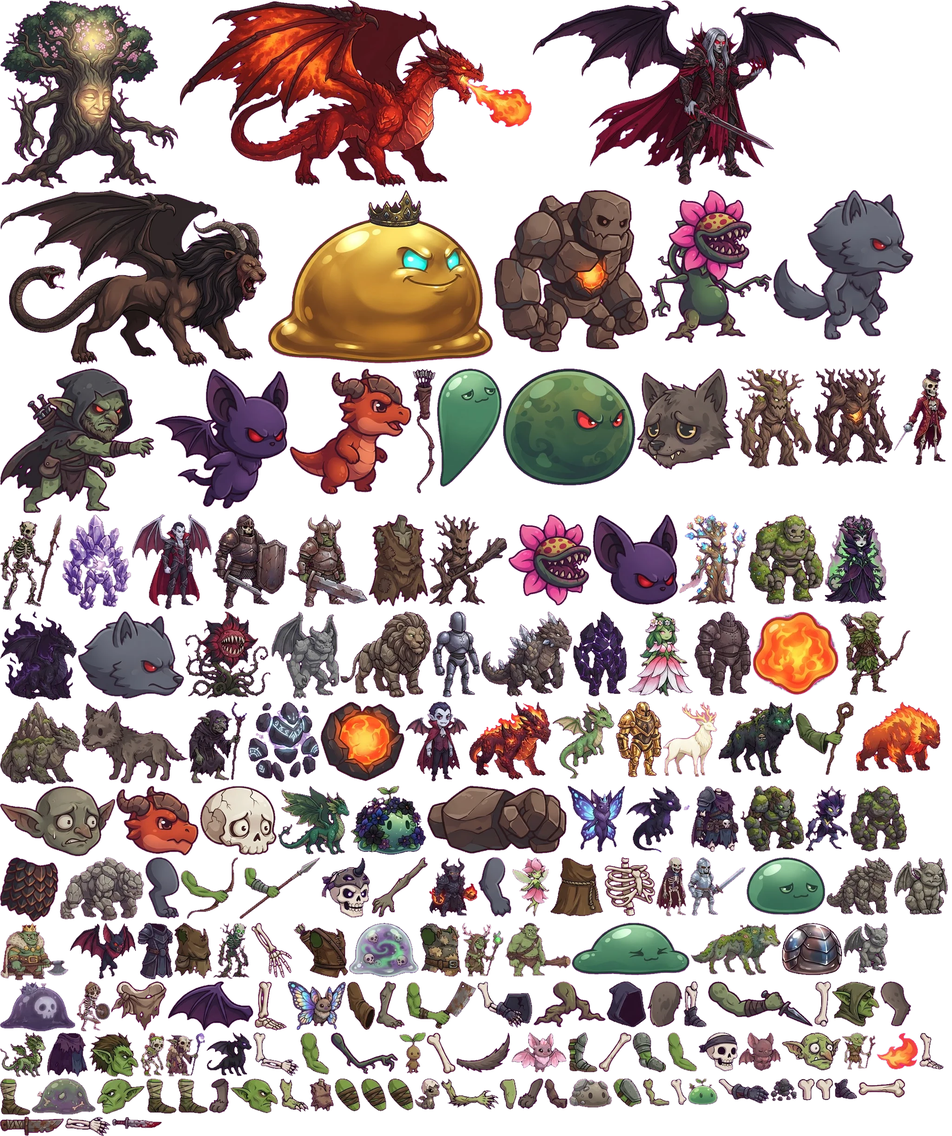
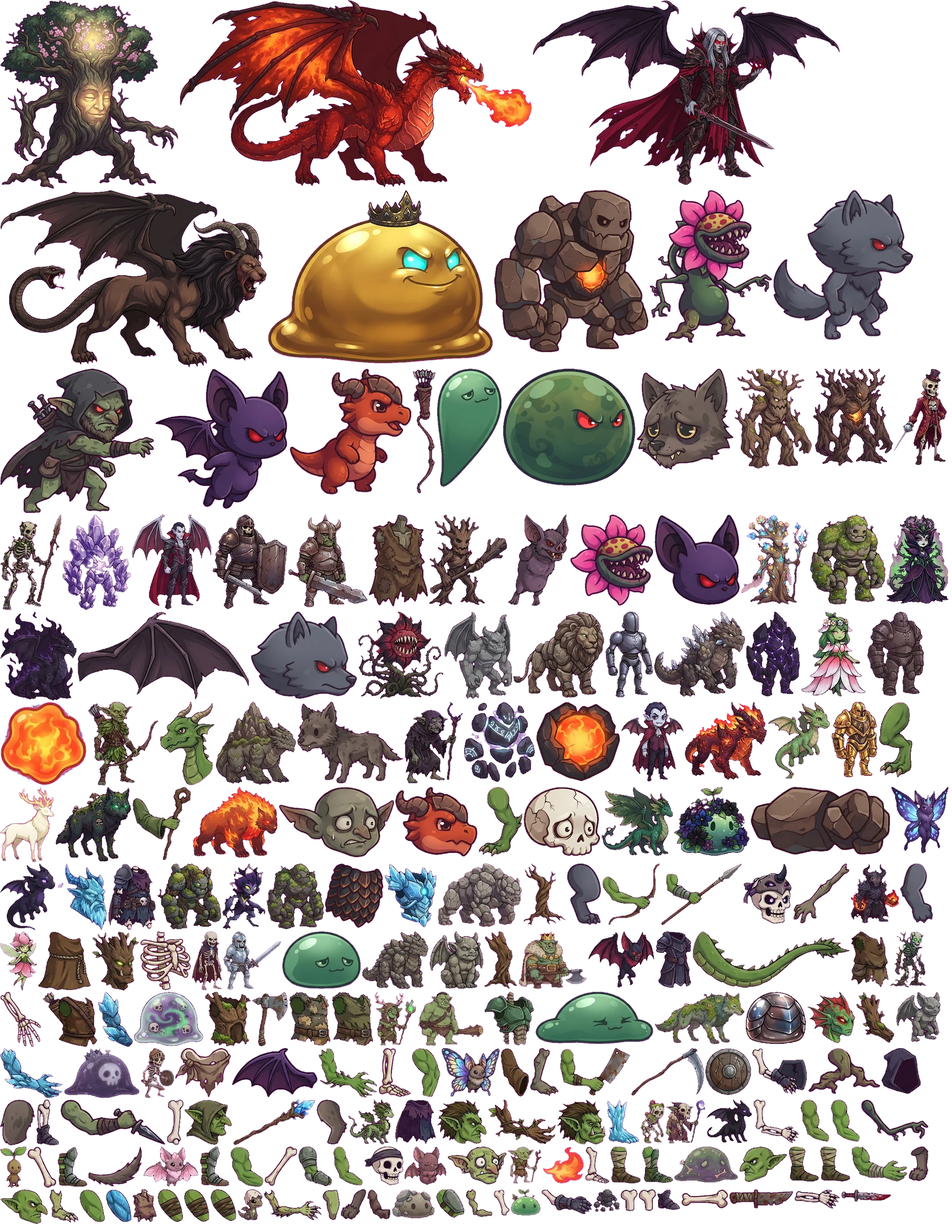
Bone to Beast/Survivors: rigged enemies (lizardman, orc, ice golem, treant, bat with flapping wings, drake with walking legs)
Claude-Session: https://claude.ai/code/session_01VuDiQoiwkAwkour2auYRX7

diff --git a/bone-to-beast/index.html b/bone-to-beast/index.html
@@ -419,7 +419,7 @@ function rr(g,x,y,w,h,r){g.beginPath();g.moveTo(x+r,y);g.arcTo(x+w,y,x+w,y+h,r);
 function limb(g,x1,y1,x2,y2,w,col,joint){g.strokeStyle=col;g.lineWidth=w;g.lineCap='round';g.beginPath();g.moveTo(x1,y1);g.lineTo(x2,y2);g.stroke();if(joint){g.fillStyle=col;g.beginPath();g.arc(x1,y1,w*0.75,0,7);g.arc(x2,y2,w*0.75,0,7);g.fill();}}
 function shade(hex,a){var n=parseInt(hex.slice(1),16);return 'rgb('+[n>>16,(n>>8)&255,n&255].map(function(v){return Math.max(0,Math.min(255,v+a));}).join(',')+')';}
 // ======================= art (atlas) =======================
-var ATLAS={"uTree":[0,0,384,407],"uDragon":[386,0,758,404],"uVampire":[1146,0,661,399],"uChimera":[0,409,574,382],"uOrichalcum":[576,409,485,374],"eGolem":[1063,409,332,350],"ePlant":[1397,409,264,330],"eWolf":[1663,409,302,323],"eGoblin":[0,793,332,312],"eBat":[334,793,287,302],"eDrake":[623,793,263,272],"rC_bow":[888,793,50,269],"slTall":[940,793,140,255],"eSlime":[1082,793,285,252],"bsHead":[1369,793,209,218],"fPlTreant":[1580,793,167,216],"fGlTree":[1749,793,172,210],"fmSkCount":[1923,793,114,208],"fmSkSpear":[0,1107,132,207],"fmGlAmethyst":[134,1107,148,206],"fBtLord":[284,1107,171,205],"fmSkHeavy":[457,1107,161,204],"fmGbGeneral":[620,1107,171,200],"gbTorso":[793,1107,128,199],"fmPlWarrior":[923,1107,168,198],"plantHead":[1093,1107,180,197],"batHead":[1275,1107,184,195],"fPlWarden":[1461,1107,146,194],"fmGlMoss":[1609,1107,163,194],"fmPlQueen":[1774,1107,134,193],"fDrShadow":[0,1316,165,192],"wolfHead":[167,1316,229,188],"fPlBloom":[398,1316,184,188],"fBtFiend":[584,1316,146,188],"fmBsLion":[732,1316,196,186],"fmGlSteel":[930,1316,103,185],"fmDrRock":[1035,1316,196,184],"fGlObs":[1233,1316,116,183],"fmPlPriest":[1351,1316,140,183],"fGlIron":[1493,1316,123,182],"slimeCore":[1618,1316,187,181],"fmGbArcher":[1807,1316,152,181],"fDrEarth":[0,1510,173,179],"bsFull":[175,1510,229,176],"fmGbSorc":[406,1510,126,176],"fGlRune":[534,1510,153,173],"golemCore":[689,1510,181,172],"fmBtVamp":[872,1510,135,172],"fmBsDrag":[1009,1510,177,169],"fmDrYoung":[1188,1510,134,166],"fGlOri":[1324,1510,100,163],"fBsSacred":[1426,1510,117,163],"fmBsWolf":[1545,1510,164,162],"rF_fore":[1711,1510,127,159,6.0,26.0,91.8,82.6],"fBsFire":[1840,1510,184,153],"gbHead":[0,1691,248,152],"drakeHead":[250,1691,178,151],"skSkull":[430,1691,166,150],"fDrEmerald":[598,1691,154,149],"fmSlBloom":[754,1691,163,149],"golemFist":[919,1691,300,147,12.1,72.6,289.2,79.2],"fBtMonarch":[1221,1691,124,144],"fmDrBlack":[1347,1691,137,144],"rA_torso":[1486,1691,104,143],"fPlRoot":[1592,1691,138,142],"fPlShade":[1732,1691,93,142],"fGlMoss":[1827,1691,124,142],"drakeScales":[0,1845,126,139],"fBsRock":[128,1845,182,137],"wolfLeg":[312,1845,74,133,26.5,4.0,54.5,126.5],"rG_fore":[388,1845,125,133,5.0,32.0,87.0,83.6],"rH_fore":[515,1845,174,133,15.0,23.0,74.7,76.1],"rA_head":[691,1845,106,131],"gbFore":[799,1845,122,130,113.1,7.4,8.5,118.8],"fGbDemon":[923,1845,104,130],"wolfArm":[1029,1845,71,129,32.6,4.2,50.4,121.8],"fPlPetal":[1102,1845,80,128],"rF_torso":[1184,1845,114,128],"skRibs":[1300,1845,110,127],"fSkVamp":[1412,1845,65,127],"fSkSteel":[1479,1845,125,126],"slRest":[1606,1845,170,125],"fDrRock":[1778,1845,143,125],"fmBtGarg":[1923,1845,116,124],"fGbKing":[0,1986,148,124],"fBtBlood":[150,1986,143,122],"rD_torso":[295,1986,78,122],"rE_torso":[375,1986,81,121],"fSkWraith":[458,1986,80,121],"skFore":[540,1986,89,119,10.1,6.5,74.1,108.9],"rG_torso":[631,1986,118,119],"fmSlGhost":[751,1986,150,118],"rH_torso":[903,1986,89,117],"fGbDruid":[994,1986,90,117],"fGbHob":[1086,1986,142,117],"slFlat":[1230,1986,254,114],"fBsForest":[1486,1986,194,114],"fmSlIron":[1682,1986,130,113],"fBtGarg":[1814,1986,97,109],"fSlDeath":[0,2112,162,108],"fSkKnight":[164,2112,73,108],"skPelvis":[239,2112,120,107],"batWing":[361,2112,184,107],"skShin":[547,2112,70,106,20.7,3.0,53.8,101.3],"fmBtButter":[619,2112,125,105],"rF_upper":[746,2112,61,105,13.5,5.5,42.2,98.1],"gbShin":[809,2112,62,104,27.3,3.6,39.8,97.9],"rE_fore":[873,2112,152,103,8.0,5.0,78.2,78.9],"rA_arm2":[1027,2112,119,101,12.0,7.4,113.6,59.2],"plantRoots":[1148,2112,155,100],"rD_head":[1305,2112,86,100],"bsBackU":[1393,2112,75,99,49.3,4.9,21.0,93.2],"rA_shin":[1470,2112,51,99,23.0,4.4,31.5,95.1],"goblinArm":[1523,2112,226,98,6.0,19.2,211.4,86.9],"rA_thigh":[1751,2112,37,98,21.2,3.1,18.8,93.5],"rF_head":[1790,2112,102,98],"bsFrontU":[1894,2112,66,97,15.7,4.4,38.2,92.4],"fDrForest":[0,2222,99,97],"rC_torso":[101,2222,88,97],"rH_head":[191,2222,108,97],"fSkMoss":[301,2222,53,95],"fGbShaman":[356,2222,86,95],"fDrBlack":[444,2222,98,94],"rA_arm":[544,2222,100,94,12.7,3.6,91.4,75.1],"rE_upper":[646,2222,63,91,17.1,4.1,49.5,85.8],"plantVine":[711,2222,146,90,4.4,9.7,136.3,67.9],"stSprout":[859,2222,57,90],"skThigh":[918,2222,62,89,10.1,6.2,52.8,83.4],"bsTail":[982,2222,116,87],"fBtFairy":[1100,2222,119,87],"rH_shin":[1221,2222,65,87,33.7,5.4,41.8,82.8],"skUpper":[1288,2222,71,86,63.5,5.3,7.7,78.3],"rH_upper":[1361,2222,73,86,19.0,3.4,57.4,80.7],"rG_upper":[1436,2222,64,85,12.5,4.0,50.8,80.2],"rC_head":[1502,2222,85,84],"stBat":[1589,2222,91,83],"rB_head":[1682,2222,127,82],"fGbForest":[1811,2222,73,81],"fire":[1886,2222,89,80],"rC_shin":[1977,2222,53,80,9.1,4.2,40.7,76.0],"rG_shin":[0,2321,66,80,18.0,2.7,38.4,76.6],"fSlZombie":[68,2321,138,79],"rG_head":[208,2321,104,77],"rE_shin":[314,2321,66,76,17.0,2.8,39.6,72.6],"rF_shin":[382,2321,65,76,15.3,2.9,37.5,72.4],"bsBackL":[449,2321,44,75,29.2,2.4,15.6,71.4],"rE_head":[495,2321,104,75],"rB_shin":[601,2321,63,73,10.2,5.5,42.6,66.1],"rB_torso":[666,2321,52,71],"rE_thigh":[720,2321,55,71,17.3,3.4,41.8,65.9],"rF_thigh":[777,2321,55,71,16.9,3.5,41.5,65.7],"rG_thigh":[834,2321,56,69,16.5,3.5,42.9,63.8],"stHatch":[892,2321,54,68],"rB_fore":[948,2321,125,67,5.4,12.5,116.1,46.0],"rB_thigh":[1075,2321,37,67,20.5,3.3,21.7,62.5],"bsFrontL":[1114,2321,55,66,49.9,3.1,6.6,58.9],"rD_upper":[1171,2321,51,65,9.6,4.4,37.0,61.1],"fSlRock":[1224,2321,93,63],"rH_thigh":[1319,2321,62,62,22.8,2.1,37.7,56.7],"rB_upper":[1383,2321,58,60,12.0,3.8,52.5,53.7],"rC_upper":[1443,2321,35,58,14.2,3.4,22.3,53.9],"fSlGrass":[1480,2321,64,57],"rD_fore":[1546,2321,109,54,5.7,6.9,103.1,36.0],"stPebble":[1657,2321,57,49],"rD_thigh":[1716,2321,37,48,21.2,2.5,19.7,44.5],"rC_thigh":[1755,2321,38,47,21.6,2.4,21.6,43.8],"rD_shin":[1795,2321,49,45,21.8,3.7,33.6,41.7],"skClub":[1846,2321,102,42,3.5,24.2,98.1,19.7],"gbKnife":[0,2403,138,42,3.0,17.2,130.5,10.1],"rC_fore":[140,2403,98,42,4.3,16.7,90.3,19.9],"rB_knife":[240,2403,109,28,3.7,12.1,101.7,14.2]},ART=new Image(),ARTOK=false;ART.src='art/atlas.webp?v=8';
+var ATLAS={"uTree":[0,0,384,407],"uDragon":[386,0,758,404],"uVampire":[1146,0,661,399],"uChimera":[0,409,574,382],"uOrichalcum":[576,409,485,374],"eGolem":[1063,409,332,350],"ePlant":[1397,409,264,330],"eWolf":[1663,409,302,323],"eGoblin":[0,793,332,312],"eBat":[334,793,287,302],"eDrake":[623,793,263,272],"rC_bow":[888,793,50,269],"slTall":[940,793,140,255],"eSlime":[1082,793,285,252],"bsHead":[1369,793,209,218],"fPlTreant":[1580,793,167,216],"fGlTree":[1749,793,172,210],"fmSkCount":[1923,793,114,208],"fmSkSpear":[0,1107,132,207],"fmGlAmethyst":[134,1107,148,206],"fBtLord":[284,1107,171,205],"fmSkHeavy":[457,1107,161,204],"fmGbGeneral":[620,1107,171,200],"gbTorso":[793,1107,128,199],"fmPlWarrior":[923,1107,168,198],"rBat_body":[1093,1107,131,198],"plantHead":[1226,1107,180,197],"batHead":[1408,1107,184,195],"fPlWarden":[1594,1107,146,194],"fmGlMoss":[1742,1107,163,194],"fmPlQueen":[1907,1107,134,193],"fDrShadow":[0,1316,165,192],"rBat_wing":[167,1316,370,189],"wolfHead":[539,1316,229,188],"fPlBloom":[770,1316,184,188],"fBtFiend":[956,1316,146,188],"fmBsLion":[1104,1316,196,186],"fmGlSteel":[1302,1316,103,185],"fmDrRock":[1407,1316,196,184],"fGlObs":[1605,1316,116,183],"fmPlPriest":[1723,1316,140,183],"fGlIron":[1865,1316,123,182],"slimeCore":[0,1510,187,181],"fmGbArcher":[189,1510,152,181],"rDr_head":[343,1510,119,180],"fDrEarth":[464,1510,173,179],"bsFull":[639,1510,229,176],"fmGbSorc":[870,1510,126,176],"fGlRune":[998,1510,153,173],"golemCore":[1153,1510,181,172],"fmBtVamp":[1336,1510,135,172],"fmBsDrag":[1473,1510,177,169],"fmDrYoung":[1652,1510,134,166],"fGlOri":[1788,1510,100,163],"rDr_back":[1890,1510,73,163,45.5,6.7,37.4,152.8],"fBsSacred":[0,1693,117,163],"fmBsWolf":[119,1693,164,162],"rF_fore":[285,1693,127,159,6.0,26.0,91.8,82.6],"fBsFire":[414,1693,184,153],"gbHead":[600,1693,248,152],"drakeHead":[850,1693,178,151],"rDr_front":[1030,1693,94,151,40.3,5.2,31.4,141.3],"skSkull":[1126,1693,166,150],"fDrEmerald":[1294,1693,154,149],"fmSlBloom":[1450,1693,163,149],"golemFist":[1615,1693,300,147,12.1,72.6,289.2,79.2],"fBtMonarch":[1917,1693,124,144],"fmDrBlack":[0,1858,137,144],"rI_head":[139,1858,91,144],"rA_torso":[232,1858,104,143],"fPlRoot":[338,1858,138,142],"fPlShade":[478,1858,93,142],"fGlMoss":[573,1858,124,142],"drakeScales":[699,1858,126,139],"rI_torso":[827,1858,112,138],"fBsRock":[941,1858,182,137],"rT_shin":[1125,1858,92,134,20.0,13.0,35.8,124.0],"wolfLeg":[1219,1858,74,133,26.5,4.0,54.5,126.5],"rG_fore":[1295,1858,125,133,5.0,32.0,87.0,83.6],"rH_fore":[1422,1858,174,133,15.0,23.0,74.7,76.1],"rA_head":[1598,1858,106,131],"gbFore":[1706,1858,122,130,113.1,7.4,8.5,118.8],"fGbDemon":[1830,1858,104,130],"wolfArm":[1936,1858,71,129,32.6,4.2,50.4,121.8],"fPlPetal":[0,2004,80,128],"rF_torso":[82,2004,114,128],"rT_head":[198,2004,101,128],"skRibs":[301,2004,110,127],"fSkVamp":[413,2004,65,127],"fSkSteel":[480,2004,125,126],"slRest":[607,2004,170,125],"fDrRock":[779,2004,143,125],"fmBtGarg":[924,2004,116,124],"rT_thigh":[1042,2004,71,124,29.8,6.6,37.1,116.3],"fGbKing":[1115,2004,148,124],"fBtBlood":[1265,2004,143,122],"rD_torso":[1410,2004,78,122],"rDr_tail":[1490,2004,339,122],"rE_torso":[1831,2004,81,121],"fSkWraith":[1914,2004,80,121],"skFore":[0,2134,89,119,10.1,6.5,74.1,108.9],"rG_torso":[91,2134,118,119],"rI_upper":[211,2134,75,119,19.2,8.8,60.3,112.5],"fmSlGhost":[288,2134,150,118],"rT_torso":[440,2134,100,118],"rO_wpn":[542,2134,78,118],"rH_torso":[622,2134,89,117],"rO_torso":[713,2134,91,117],"fGbDruid":[806,2134,90,117],"fGbHob":[898,2134,142,117],"rL_torso":[1042,2134,108,116],"slFlat":[1152,2134,254,114],"fBsForest":[1408,2134,194,114],"fmSlIron":[1604,2134,130,113],"rL_head":[1736,2134,104,111],"rT_upper":[1842,2134,83,111,21.6,8.6,67.5,102.1],"fBtGarg":[1927,2134,97,109],"rI_fore":[0,2255,136,109,6.6,19.4,124.1,89.4],"fSlDeath":[138,2255,162,108],"fSkKnight":[302,2255,73,108],"skPelvis":[377,2255,120,107],"batWing":[499,2255,184,107],"rL_fore":[685,2255,127,107,7.0,25.5,115.8,83.0],"skShin":[814,2255,70,106,20.7,3.0,53.8,101.3],"rO_thigh":[886,2255,62,106,20.4,4.3,34.9,100.5],"fmBtButter":[950,2255,125,105],"rF_upper":[1077,2255,61,105,13.5,5.5,42.2,98.1],"gbShin":[1140,2255,62,104,27.3,3.6,39.8,97.9],"rE_fore":[1204,2255,152,103,8.0,5.0,78.2,78.9],"rL_wpn":[1358,2255,157,103],"rO_shield":[1517,2255,99,102],"rA_arm2":[1618,2255,119,101,12.0,7.4,113.6,59.2],"plantRoots":[1739,2255,155,100],"rD_head":[1896,2255,86,100],"bsBackU":[0,2366,75,99,49.3,4.9,21.0,93.2],"rA_shin":[77,2366,51,99,23.0,4.4,31.5,95.1],"goblinArm":[130,2366,226,98,6.0,19.2,211.4,86.9],"rA_thigh":[358,2366,37,98,21.2,3.1,18.8,93.5],"rF_head":[397,2366,102,98],"rI_wpn":[501,2366,178,98],"bsFrontU":[681,2366,66,97,15.7,4.4,38.2,92.4],"fDrForest":[749,2366,99,97],"rC_torso":[850,2366,88,97],"rH_head":[940,2366,108,97],"rT_fore":[1050,2366,146,97,8.3,26.5,136.9,70.2],"rO_head":[1198,2366,105,97],"rI_shin":[1305,2366,70,96,21.7,8.2,45.9,91.1],"fSkMoss":[1377,2366,53,95],"fGbShaman":[1432,2366,86,95],"fDrBlack":[1520,2366,98,94],"rA_arm":[1620,2366,100,94,12.7,3.6,91.4,75.1],"rE_upper":[1722,2366,63,91,17.1,4.1,49.5,85.8],"rL_upper":[1787,2366,63,91,16.8,3.5,50.5,86.4],"plantVine":[1852,2366,146,90,4.4,9.7,136.3,67.9],"stSprout":[0,2467,57,90],"skThigh":[59,2467,62,89,10.1,6.2,52.8,83.4],"rO_shin":[123,2467,65,88,33.7,6.4,40.5,83.7],"bsTail":[190,2467,116,87],"fBtFairy":[308,2467,119,87],"rH_shin":[429,2467,65,87,33.7,5.4,41.8,82.8],"rO_upper":[496,2467,71,87,18.1,4.3,52.8,83.2],"skUpper":[569,2467,71,86,63.5,5.3,7.7,78.3],"rH_upper":[642,2467,73,86,19.0,3.4,57.4,80.7],"rG_upper":[717,2467,64,85,12.5,4.0,50.8,80.2],"rC_head":[783,2467,85,84],"stBat":[870,2467,91,83],"rB_head":[963,2467,127,82],"fGbForest":[1092,2467,73,81],"fire":[1167,2467,89,80],"rC_shin":[1258,2467,53,80,9.1,4.2,40.7,76.0],"rG_shin":[1313,2467,66,80,18.0,2.7,38.4,76.6],"rL_shin":[1381,2467,67,79,14.9,4.2,39.3,75.5],"fSlZombie":[1450,2467,138,79],"rG_head":[1590,2467,104,77],"rE_shin":[1696,2467,66,76,17.0,2.8,39.6,72.6],"rF_shin":[1764,2467,65,76,15.3,2.9,37.5,72.4],"rO_fore":[1831,2467,121,76,5.1,17.1,113.4,55.4],"bsBackL":[1954,2467,44,75,29.2,2.4,15.6,71.4],"rE_head":[0,2559,104,75],"rB_shin":[106,2559,63,73,10.2,5.5,42.6,66.1],"rL_thigh":[171,2559,55,72,17.4,4.4,41.9,66.7],"rI_thigh":[228,2559,55,72,16.5,4.4,41.4,66.6],"rB_torso":[285,2559,52,71],"rE_thigh":[339,2559,55,71,17.3,3.4,41.8,65.9],"rF_thigh":[396,2559,55,71,16.9,3.5,41.5,65.7],"rG_thigh":[453,2559,56,69,16.5,3.5,42.9,63.8],"stHatch":[511,2559,54,68],"rB_fore":[567,2559,125,67,5.4,12.5,116.1,46.0],"rB_thigh":[694,2559,37,67,20.5,3.3,21.7,62.5],"bsFrontL":[733,2559,55,66,49.9,3.1,6.6,58.9],"rD_upper":[790,2559,51,65,9.6,4.4,37.0,61.1],"fSlRock":[843,2559,93,63],"rH_thigh":[938,2559,62,62,22.8,2.1,37.7,56.7],"rB_upper":[1002,2559,58,60,12.0,3.8,52.5,53.7],"rC_upper":[1062,2559,35,58,14.2,3.4,22.3,53.9],"fSlGrass":[1099,2559,64,57],"rD_fore":[1165,2559,109,54,5.7,6.9,103.1,36.0],"stPebble":[1276,2559,57,49],"rD_thigh":[1335,2559,37,48,21.2,2.5,19.7,44.5],"rC_thigh":[1374,2559,38,47,21.6,2.4,21.6,43.8],"rD_shin":[1414,2559,49,45,21.8,3.7,33.6,41.7],"skClub":[1465,2559,102,42,3.5,24.2,98.1,19.7],"gbKnife":[1569,2559,138,42,3.0,17.2,130.5,10.1],"rC_fore":[1709,2559,98,42,4.3,16.7,90.3,19.9],"rB_knife":[1809,2559,109,28,3.7,12.1,101.7,14.2]},ART=new Image(),ARTOK=false;ART.src='art/atlas.webp?v=10';
 function aspr(k){return ATLAS[k];}
 // draw a limb image so that its end points land on A and B
 function seg(g,k,ax,ay,bx,by,ext){var a=ATLAS[k];if(!a||!ARTOK)return;var x0=a[4],y0=a[5],x1=a[6],y1=a[7],L0=Math.hypot(x1-x0,y1-y0),L=Math.hypot(bx-ax,by-ay)||0.01,s=L/L0*(ext||1);
@@ -470,6 +470,10 @@ var RIGS={A:{head:['rA_head',27],torso:['rA_torso',31],arm:'rA_arm',arm2:'rA_arm
  F:{head:['rF_head',24],torso:['rF_torso',27],upper:'rF_upper',fore:'rF_fore',wf:1,thigh:'rF_thigh',shin:'rF_shin'},
  G:{head:['rG_head',23],torso:['rG_torso',24],upper:'rG_upper',fore:'rG_fore',wf:1,thigh:'rG_thigh',shin:'rG_shin'},
  H:{head:['rH_head',25],torso:['rH_torso',25],upper:'rH_upper',fore:'rH_fore',wf:1,thigh:'rH_thigh',shin:'rH_shin'},
+ L:{head:['rL_head',22],torso:['rL_torso',25],upper:'rL_upper',fore:'rL_fore',thigh:'rL_thigh',shin:'rL_shin',wpn:['rL_wpn',30,0.35,0.7]},
+ I:{hy:7,head:['rI_head',25],torso:['rI_torso',27],upper:'rI_upper',fore:'rI_fore',thigh:'rI_thigh',shin:'rI_shin',wpn:['rI_wpn',22,0.4,0.6]},
+ T:{head:['rT_head',24],torso:['rT_torso',27],upper:'rT_upper',fore:'rT_fore',thigh:'rT_thigh',shin:'rT_shin'},
+ O:{head:['rO_head',24],torso:['rO_torso',26],upper:'rO_upper',fore:'rO_fore',thigh:'rO_thigh',shin:'rO_shin',wpn:['rO_wpn',24,0.4,0.78],shield:['rO_shield',17]},
  D:{head:['rD_head',26],torso:['rD_torso',29],upper:'rD_upper',fore:'rD_fore',thigh:'rD_thigh',boot:'rD_shin'}};
 function drawRig(g,p,id,H){var Rg=RIGS[id],wk=p.walk||0,mv=Math.min(1,Math.abs(p.vx||0)/120);p._mv=(p._mv||0)+(mv-(p._mv||0))*0.15;mv=p._mv;
   var t=performance.now()/1000,run=p.ground?Math.sin(wk*2)*mv:0.6,sw=p.swing>0?1-p.swing/0.2:0,bob=p.ground?(1-Math.cos(wk*4))*0.6*mv+Math.sin(t*2.2)*0.4*(1-mv):0;
@@ -481,8 +485,21 @@ function drawRig(g,p,id,H){var Rg=RIGS[id],wk=p.walk||0,mv=Math.min(1,Math.abs(p
     if(Rg.arm){var k=i?Rg.arm2:Rg.arm;seg(g,k,sx,sy,sx+Math.sin(a+0.3)*19,sy+Math.cos(a+0.3)*19);return;}
     var ex=sx+Math.sin(a)*10,ey=sy+Math.cos(a)*10,hx=ex+Math.sin(a+0.6)*12,hy=ey+Math.cos(a+0.6)*12;seg(g,Rg.upper,sx,sy,ex,ey);if(!i&&Rg.wf)seg(g,Rg.upper,ex,ey,hx,hy);else seg(g,Rg.fore,ex,ey,hx,hy,Rg.wf?1.15:1);
     if(i&&Rg.knife){var an=a+0.6;seg(g,Rg.knife,hx,hy,hx+Math.sin(an+1.3)*15,hy+Math.cos(an+1.3)*15);}
-    if(i&&Rg.bow)spr(g,Rg.bow,hx,hy,34,0.5,0.5,0.1);}
-  arm(0);leg(0);leg(1);spr(g,Rg.torso[0],0,shY-5,Rg.torso[1],0.5,0.04);spr(g,Rg.head[0],2,headY+Math.sin(t*2.2)*0.4,Rg.head[1],0.5,0.6);arm(1);g.restore();}
+    if(i&&Rg.bow)spr(g,Rg.bow,hx,hy,34,0.5,0.5,0.1);
+    if(i&&Rg.wpn)spr(g,Rg.wpn[0],hx,hy,Rg.wpn[1],Rg.wpn[2],Rg.wpn[3],p.swing>0?(-1.2+sw*2.2):0.2);
+    if(!i&&Rg.shield)spr(g,Rg.shield[0],hx+2,hy-2,Rg.shield[1],0.5,0.5);}
+  arm(0);leg(0);leg(1);spr(g,Rg.torso[0],0,shY-5,Rg.torso[1],0.5,0.04);spr(g,Rg.head[0],2,headY+(Rg.hy||0)+Math.sin(t*2.2)*0.4,Rg.head[1],0.5,0.6);arm(1);g.restore();}
+function segFlip(g,k,ax,ay,bx,by){g.save();g.scale(-1,1);seg(g,k,-ax,ay,-bx,by);g.restore();}
+function drawBatRig(g,t,H){var s=H/26,fl=Math.sin(t*14);g.save();g.scale(s,s);g.translate(0,-13+Math.sin(t*7)*1.5);
+  spr(g,'rBat_wing',-2,-6,16,0.03,0.7,0.55+fl*0.55,-1,1);
+  spr(g,'rBat_body',0,0,24,0.5,0.55);
+  spr(g,'rBat_wing',2,-5,17,0.03,0.7,0.35+fl*0.6,-1,0.92);g.restore();}
+function drawDrakeRig(g,t,mv,H,atk){var s=H/34,ph=t*11,sw=Math.sin(ph)*mv;g.save();g.scale(s,s);var bob=(1-Math.cos(ph*2))*0.8*mv;g.translate(0,-bob);
+  spr(g,'rDr_tail',-13,-19,11,0.02,0.35,Math.sin(t*4)*0.12-0.1,-1,1);
+  segFlip(g,'rDr_back',-9,-17,-9-sw*5,bob);segFlip(g,'rDr_front',9,-17,9+sw*5,bob);
+  var bg=g.createLinearGradient(0,-27,0,-11);bg.addColorStop(0,'#567f2c');bg.addColorStop(1,'#7aa547');g.fillStyle=bg;g.strokeStyle='#2f3d1a';g.lineWidth=1.2;g.beginPath();g.ellipse(0,-18.5,13.5,7.5,-0.05,0,7);g.fill();g.stroke();g.fillStyle='#a9c86a';g.beginPath();g.ellipse(2,-13.6,9,2.6,0,0,Math.PI);g.fill();
+  segFlip(g,'rDr_back',-6,-16,-6+sw*5,bob);segFlip(g,'rDr_front',12,-16,12-sw*5,bob);
+  spr(g,'rDr_head',13,-21,24,0.66,0.95,atk?-0.12:Math.sin(t*3)*0.03,-1,1);g.restore();}
 function drawSlime(g,p,P){var t=performance.now()/1000,wk=p.walk||0,lift=P.legs?14:0;g.save();g.translate(p.x,p.y);g.scale(p.face,1);shadow(g,18);
   if(P.legs==='plantLegs')spr(g,'plantRoots',0,-15,18,0.5,0.05);
   else if(P.legs==='wolfLegs'){var r=p.ground?Math.sin(wk*2)*0.5:0.4;seg(g,'wolfLeg',-5,-16,-5+Math.sin(r)*10,0);seg(g,'wolfLeg',5,-16,5-Math.sin(r)*10,0);}
@@ -534,8 +551,12 @@ function drawEnemy(e){var E=ENEMY[e.sp],A=EART[e.sp],s=e.w/E.w,t=e.t;ctx.save();
   else if(e.sp==='plant'){rot=Math.sin(t*3)*0.06;}
   else{var run=e.ground&&Math.abs(e.vx)>20;y=run?-Math.abs(Math.sin(t*12))*2:0;rot=run?Math.sin(t*12)*0.05:0;}
   if(e.aim>0){sx*=1.06;sy*=0.94;}
+  if(e.sp==='bat'){drawBatRig(ctx,t,E.h*1.3);ctx.restore();drawEnemyOver(e);return;}if(e.sp==='drake'){drawDrakeRig(ctx,t,Math.min(1,Math.abs(e.vx)/60),E.h*1.15,e.aim>0);ctx.restore();drawEnemyOver(e);return;}
+  var ERIG={wolf:'L',golem:'I',plant:'T',goblin:'O'};if(ERIG[e.sp]){var ep=e._p||(e._p={});ep.x=0;ep.y=0;ep.face=1;ep.ground=true;ep.vx=Math.abs(e.vx)*1.6;ep.walk=(ep.walk||0)+Math.abs(e.vx)*0.0007+0.004;ep.swing=e.aim>0||e.slamT>0?0.1:(e.hitT||0);drawRig(ctx,ep,ERIG[e.sp],E.h*(e.sp==='golem'?1.12:1.4));ctx.restore();if(e.hit>0){}
+    drawEnemyOver(e);return;}
   var emv=e.sp==='bat'||e.sp==='plant'?0:Math.min(1,Math.abs(e.vx)/80);ctx.translate(0,y);ctx.rotate(rot);ctx.scale(sx,sy);ctx.translate(0,-(1-Math.cos(t*9))*0.8*emv);spr(ctx,A[0],0,0,h,A[2],A[3]);
-  ctx.restore();
+  ctx.restore();drawEnemyOver(e);}
+function drawEnemyOver(e){
   if(e.hit>0){ctx.globalAlpha=0.5;ctx.fillStyle='#fff';ctx.fillRect(e.x-e.w/2,e.y-e.h,e.w,e.h);ctx.globalAlpha=1;}
   if(e.burn>0){ctx.fillStyle='rgba(255,140,58,.25)';ctx.fillRect(e.x-e.w/2,e.y-e.h,e.w,e.h);}
   if(e.aim>0){ctx.fillStyle='#ffd34f';ctx.font='900 22px sans-serif';ctx.textAlign='center';ctx.fillText('!',e.x,e.y-e.h-10);}

diff --git a/bone-to-beast/survivors.html b/bone-to-beast/survivors.html
@@ -274,7 +274,7 @@ function rr(g,x,y,w,h,r){g.beginPath();g.moveTo(x+r,y);g.arcTo(x+w,y,x+w,y+h,r);
 function limb(g,x1,y1,x2,y2,w,col,joint){g.strokeStyle=col;g.lineWidth=w;g.lineCap='round';g.beginPath();g.moveTo(x1,y1);g.lineTo(x2,y2);g.stroke();if(joint){g.fillStyle=col;g.beginPath();g.arc(x1,y1,w*0.75,0,7);g.arc(x2,y2,w*0.75,0,7);g.fill();}}
 function shade(hex,a){var n=parseInt(hex.slice(1),16);return 'rgb('+[n>>16,(n>>8)&255,n&255].map(function(v){return Math.max(0,Math.min(255,v+a));}).join(',')+')';}
 // ======================= art (atlas) =======================
-var ATLAS={"uTree":[0,0,384,407],"uDragon":[386,0,758,404],"uVampire":[1146,0,661,399],"uChimera":[0,409,574,382],"uOrichalcum":[576,409,485,374],"eGolem":[1063,409,332,350],"ePlant":[1397,409,264,330],"eWolf":[1663,409,302,323],"eGoblin":[0,793,332,312],"eBat":[334,793,287,302],"eDrake":[623,793,263,272],"rC_bow":[888,793,50,269],"slTall":[940,793,140,255],"eSlime":[1082,793,285,252],"bsHead":[1369,793,209,218],"fPlTreant":[1580,793,167,216],"fGlTree":[1749,793,172,210],"fmSkCount":[1923,793,114,208],"fmSkSpear":[0,1107,132,207],"fmGlAmethyst":[134,1107,148,206],"fBtLord":[284,1107,171,205],"fmSkHeavy":[457,1107,161,204],"fmGbGeneral":[620,1107,171,200],"gbTorso":[793,1107,128,199],"fmPlWarrior":[923,1107,168,198],"plantHead":[1093,1107,180,197],"batHead":[1275,1107,184,195],"fPlWarden":[1461,1107,146,194],"fmGlMoss":[1609,1107,163,194],"fmPlQueen":[1774,1107,134,193],"fDrShadow":[0,1316,165,192],"wolfHead":[167,1316,229,188],"fPlBloom":[398,1316,184,188],"fBtFiend":[584,1316,146,188],"fmBsLion":[732,1316,196,186],"fmGlSteel":[930,1316,103,185],"fmDrRock":[1035,1316,196,184],"fGlObs":[1233,1316,116,183],"fmPlPriest":[1351,1316,140,183],"fGlIron":[1493,1316,123,182],"slimeCore":[1618,1316,187,181],"fmGbArcher":[1807,1316,152,181],"fDrEarth":[0,1510,173,179],"bsFull":[175,1510,229,176],"fmGbSorc":[406,1510,126,176],"fGlRune":[534,1510,153,173],"golemCore":[689,1510,181,172],"fmBtVamp":[872,1510,135,172],"fmBsDrag":[1009,1510,177,169],"fmDrYoung":[1188,1510,134,166],"fGlOri":[1324,1510,100,163],"fBsSacred":[1426,1510,117,163],"fmBsWolf":[1545,1510,164,162],"rF_fore":[1711,1510,127,159,6.0,26.0,91.8,82.6],"fBsFire":[1840,1510,184,153],"gbHead":[0,1691,248,152],"drakeHead":[250,1691,178,151],"skSkull":[430,1691,166,150],"fDrEmerald":[598,1691,154,149],"fmSlBloom":[754,1691,163,149],"golemFist":[919,1691,300,147,12.1,72.6,289.2,79.2],"fBtMonarch":[1221,1691,124,144],"fmDrBlack":[1347,1691,137,144],"rA_torso":[1486,1691,104,143],"fPlRoot":[1592,1691,138,142],"fPlShade":[1732,1691,93,142],"fGlMoss":[1827,1691,124,142],"drakeScales":[0,1845,126,139],"fBsRock":[128,1845,182,137],"wolfLeg":[312,1845,74,133,26.5,4.0,54.5,126.5],"rG_fore":[388,1845,125,133,5.0,32.0,87.0,83.6],"rH_fore":[515,1845,174,133,15.0,23.0,74.7,76.1],"rA_head":[691,1845,106,131],"gbFore":[799,1845,122,130,113.1,7.4,8.5,118.8],"fGbDemon":[923,1845,104,130],"wolfArm":[1029,1845,71,129,32.6,4.2,50.4,121.8],"fPlPetal":[1102,1845,80,128],"rF_torso":[1184,1845,114,128],"skRibs":[1300,1845,110,127],"fSkVamp":[1412,1845,65,127],"fSkSteel":[1479,1845,125,126],"slRest":[1606,1845,170,125],"fDrRock":[1778,1845,143,125],"fmBtGarg":[1923,1845,116,124],"fGbKing":[0,1986,148,124],"fBtBlood":[150,1986,143,122],"rD_torso":[295,1986,78,122],"rE_torso":[375,1986,81,121],"fSkWraith":[458,1986,80,121],"skFore":[540,1986,89,119,10.1,6.5,74.1,108.9],"rG_torso":[631,1986,118,119],"fmSlGhost":[751,1986,150,118],"rH_torso":[903,1986,89,117],"fGbDruid":[994,1986,90,117],"fGbHob":[1086,1986,142,117],"slFlat":[1230,1986,254,114],"fBsForest":[1486,1986,194,114],"fmSlIron":[1682,1986,130,113],"fBtGarg":[1814,1986,97,109],"fSlDeath":[0,2112,162,108],"fSkKnight":[164,2112,73,108],"skPelvis":[239,2112,120,107],"batWing":[361,2112,184,107],"skShin":[547,2112,70,106,20.7,3.0,53.8,101.3],"fmBtButter":[619,2112,125,105],"rF_upper":[746,2112,61,105,13.5,5.5,42.2,98.1],"gbShin":[809,2112,62,104,27.3,3.6,39.8,97.9],"rE_fore":[873,2112,152,103,8.0,5.0,78.2,78.9],"rA_arm2":[1027,2112,119,101,12.0,7.4,113.6,59.2],"plantRoots":[1148,2112,155,100],"rD_head":[1305,2112,86,100],"bsBackU":[1393,2112,75,99,49.3,4.9,21.0,93.2],"rA_shin":[1470,2112,51,99,23.0,4.4,31.5,95.1],"goblinArm":[1523,2112,226,98,6.0,19.2,211.4,86.9],"rA_thigh":[1751,2112,37,98,21.2,3.1,18.8,93.5],"rF_head":[1790,2112,102,98],"bsFrontU":[1894,2112,66,97,15.7,4.4,38.2,92.4],"fDrForest":[0,2222,99,97],"rC_torso":[101,2222,88,97],"rH_head":[191,2222,108,97],"fSkMoss":[301,2222,53,95],"fGbShaman":[356,2222,86,95],"fDrBlack":[444,2222,98,94],"rA_arm":[544,2222,100,94,12.7,3.6,91.4,75.1],"rE_upper":[646,2222,63,91,17.1,4.1,49.5,85.8],"plantVine":[711,2222,146,90,4.4,9.7,136.3,67.9],"stSprout":[859,2222,57,90],"skThigh":[918,2222,62,89,10.1,6.2,52.8,83.4],"bsTail":[982,2222,116,87],"fBtFairy":[1100,2222,119,87],"rH_shin":[1221,2222,65,87,33.7,5.4,41.8,82.8],"skUpper":[1288,2222,71,86,63.5,5.3,7.7,78.3],"rH_upper":[1361,2222,73,86,19.0,3.4,57.4,80.7],"rG_upper":[1436,2222,64,85,12.5,4.0,50.8,80.2],"rC_head":[1502,2222,85,84],"stBat":[1589,2222,91,83],"rB_head":[1682,2222,127,82],"fGbForest":[1811,2222,73,81],"fire":[1886,2222,89,80],"rC_shin":[1977,2222,53,80,9.1,4.2,40.7,76.0],"rG_shin":[0,2321,66,80,18.0,2.7,38.4,76.6],"fSlZombie":[68,2321,138,79],"rG_head":[208,2321,104,77],"rE_shin":[314,2321,66,76,17.0,2.8,39.6,72.6],"rF_shin":[382,2321,65,76,15.3,2.9,37.5,72.4],"bsBackL":[449,2321,44,75,29.2,2.4,15.6,71.4],"rE_head":[495,2321,104,75],"rB_shin":[601,2321,63,73,10.2,5.5,42.6,66.1],"rB_torso":[666,2321,52,71],"rE_thigh":[720,2321,55,71,17.3,3.4,41.8,65.9],"rF_thigh":[777,2321,55,71,16.9,3.5,41.5,65.7],"rG_thigh":[834,2321,56,69,16.5,3.5,42.9,63.8],"stHatch":[892,2321,54,68],"rB_fore":[948,2321,125,67,5.4,12.5,116.1,46.0],"rB_thigh":[1075,2321,37,67,20.5,3.3,21.7,62.5],"bsFrontL":[1114,2321,55,66,49.9,3.1,6.6,58.9],"rD_upper":[1171,2321,51,65,9.6,4.4,37.0,61.1],"fSlRock":[1224,2321,93,63],"rH_thigh":[1319,2321,62,62,22.8,2.1,37.7,56.7],"rB_upper":[1383,2321,58,60,12.0,3.8,52.5,53.7],"rC_upper":[1443,2321,35,58,14.2,3.4,22.3,53.9],"fSlGrass":[1480,2321,64,57],"rD_fore":[1546,2321,109,54,5.7,6.9,103.1,36.0],"stPebble":[1657,2321,57,49],"rD_thigh":[1716,2321,37,48,21.2,2.5,19.7,44.5],"rC_thigh":[1755,2321,38,47,21.6,2.4,21.6,43.8],"rD_shin":[1795,2321,49,45,21.8,3.7,33.6,41.7],"skClub":[1846,2321,102,42,3.5,24.2,98.1,19.7],"gbKnife":[0,2403,138,42,3.0,17.2,130.5,10.1],"rC_fore":[140,2403,98,42,4.3,16.7,90.3,19.9],"rB_knife":[240,2403,109,28,3.7,12.1,101.7,14.2]},ART=new Image(),ARTOK=false;ART.src='art/atlas.webp?v=8';
+var ATLAS={"uTree":[0,0,384,407],"uDragon":[386,0,758,404],"uVampire":[1146,0,661,399],"uChimera":[0,409,574,382],"uOrichalcum":[576,409,485,374],"eGolem":[1063,409,332,350],"ePlant":[1397,409,264,330],"eWolf":[1663,409,302,323],"eGoblin":[0,793,332,312],"eBat":[334,793,287,302],"eDrake":[623,793,263,272],"rC_bow":[888,793,50,269],"slTall":[940,793,140,255],"eSlime":[1082,793,285,252],"bsHead":[1369,793,209,218],"fPlTreant":[1580,793,167,216],"fGlTree":[1749,793,172,210],"fmSkCount":[1923,793,114,208],"fmSkSpear":[0,1107,132,207],"fmGlAmethyst":[134,1107,148,206],"fBtLord":[284,1107,171,205],"fmSkHeavy":[457,1107,161,204],"fmGbGeneral":[620,1107,171,200],"gbTorso":[793,1107,128,199],"fmPlWarrior":[923,1107,168,198],"rBat_body":[1093,1107,131,198],"plantHead":[1226,1107,180,197],"batHead":[1408,1107,184,195],"fPlWarden":[1594,1107,146,194],"fmGlMoss":[1742,1107,163,194],"fmPlQueen":[1907,1107,134,193],"fDrShadow":[0,1316,165,192],"rBat_wing":[167,1316,370,189],"wolfHead":[539,1316,229,188],"fPlBloom":[770,1316,184,188],"fBtFiend":[956,1316,146,188],"fmBsLion":[1104,1316,196,186],"fmGlSteel":[1302,1316,103,185],"fmDrRock":[1407,1316,196,184],"fGlObs":[1605,1316,116,183],"fmPlPriest":[1723,1316,140,183],"fGlIron":[1865,1316,123,182],"slimeCore":[0,1510,187,181],"fmGbArcher":[189,1510,152,181],"rDr_head":[343,1510,119,180],"fDrEarth":[464,1510,173,179],"bsFull":[639,1510,229,176],"fmGbSorc":[870,1510,126,176],"fGlRune":[998,1510,153,173],"golemCore":[1153,1510,181,172],"fmBtVamp":[1336,1510,135,172],"fmBsDrag":[1473,1510,177,169],"fmDrYoung":[1652,1510,134,166],"fGlOri":[1788,1510,100,163],"rDr_back":[1890,1510,73,163,45.5,6.7,37.4,152.8],"fBsSacred":[0,1693,117,163],"fmBsWolf":[119,1693,164,162],"rF_fore":[285,1693,127,159,6.0,26.0,91.8,82.6],"fBsFire":[414,1693,184,153],"gbHead":[600,1693,248,152],"drakeHead":[850,1693,178,151],"rDr_front":[1030,1693,94,151,40.3,5.2,31.4,141.3],"skSkull":[1126,1693,166,150],"fDrEmerald":[1294,1693,154,149],"fmSlBloom":[1450,1693,163,149],"golemFist":[1615,1693,300,147,12.1,72.6,289.2,79.2],"fBtMonarch":[1917,1693,124,144],"fmDrBlack":[0,1858,137,144],"rI_head":[139,1858,91,144],"rA_torso":[232,1858,104,143],"fPlRoot":[338,1858,138,142],"fPlShade":[478,1858,93,142],"fGlMoss":[573,1858,124,142],"drakeScales":[699,1858,126,139],"rI_torso":[827,1858,112,138],"fBsRock":[941,1858,182,137],"rT_shin":[1125,1858,92,134,20.0,13.0,35.8,124.0],"wolfLeg":[1219,1858,74,133,26.5,4.0,54.5,126.5],"rG_fore":[1295,1858,125,133,5.0,32.0,87.0,83.6],"rH_fore":[1422,1858,174,133,15.0,23.0,74.7,76.1],"rA_head":[1598,1858,106,131],"gbFore":[1706,1858,122,130,113.1,7.4,8.5,118.8],"fGbDemon":[1830,1858,104,130],"wolfArm":[1936,1858,71,129,32.6,4.2,50.4,121.8],"fPlPetal":[0,2004,80,128],"rF_torso":[82,2004,114,128],"rT_head":[198,2004,101,128],"skRibs":[301,2004,110,127],"fSkVamp":[413,2004,65,127],"fSkSteel":[480,2004,125,126],"slRest":[607,2004,170,125],"fDrRock":[779,2004,143,125],"fmBtGarg":[924,2004,116,124],"rT_thigh":[1042,2004,71,124,29.8,6.6,37.1,116.3],"fGbKing":[1115,2004,148,124],"fBtBlood":[1265,2004,143,122],"rD_torso":[1410,2004,78,122],"rDr_tail":[1490,2004,339,122],"rE_torso":[1831,2004,81,121],"fSkWraith":[1914,2004,80,121],"skFore":[0,2134,89,119,10.1,6.5,74.1,108.9],"rG_torso":[91,2134,118,119],"rI_upper":[211,2134,75,119,19.2,8.8,60.3,112.5],"fmSlGhost":[288,2134,150,118],"rT_torso":[440,2134,100,118],"rO_wpn":[542,2134,78,118],"rH_torso":[622,2134,89,117],"rO_torso":[713,2134,91,117],"fGbDruid":[806,2134,90,117],"fGbHob":[898,2134,142,117],"rL_torso":[1042,2134,108,116],"slFlat":[1152,2134,254,114],"fBsForest":[1408,2134,194,114],"fmSlIron":[1604,2134,130,113],"rL_head":[1736,2134,104,111],"rT_upper":[1842,2134,83,111,21.6,8.6,67.5,102.1],"fBtGarg":[1927,2134,97,109],"rI_fore":[0,2255,136,109,6.6,19.4,124.1,89.4],"fSlDeath":[138,2255,162,108],"fSkKnight":[302,2255,73,108],"skPelvis":[377,2255,120,107],"batWing":[499,2255,184,107],"rL_fore":[685,2255,127,107,7.0,25.5,115.8,83.0],"skShin":[814,2255,70,106,20.7,3.0,53.8,101.3],"rO_thigh":[886,2255,62,106,20.4,4.3,34.9,100.5],"fmBtButter":[950,2255,125,105],"rF_upper":[1077,2255,61,105,13.5,5.5,42.2,98.1],"gbShin":[1140,2255,62,104,27.3,3.6,39.8,97.9],"rE_fore":[1204,2255,152,103,8.0,5.0,78.2,78.9],"rL_wpn":[1358,2255,157,103],"rO_shield":[1517,2255,99,102],"rA_arm2":[1618,2255,119,101,12.0,7.4,113.6,59.2],"plantRoots":[1739,2255,155,100],"rD_head":[1896,2255,86,100],"bsBackU":[0,2366,75,99,49.3,4.9,21.0,93.2],"rA_shin":[77,2366,51,99,23.0,4.4,31.5,95.1],"goblinArm":[130,2366,226,98,6.0,19.2,211.4,86.9],"rA_thigh":[358,2366,37,98,21.2,3.1,18.8,93.5],"rF_head":[397,2366,102,98],"rI_wpn":[501,2366,178,98],"bsFrontU":[681,2366,66,97,15.7,4.4,38.2,92.4],"fDrForest":[749,2366,99,97],"rC_torso":[850,2366,88,97],"rH_head":[940,2366,108,97],"rT_fore":[1050,2366,146,97,8.3,26.5,136.9,70.2],"rO_head":[1198,2366,105,97],"rI_shin":[1305,2366,70,96,21.7,8.2,45.9,91.1],"fSkMoss":[1377,2366,53,95],"fGbShaman":[1432,2366,86,95],"fDrBlack":[1520,2366,98,94],"rA_arm":[1620,2366,100,94,12.7,3.6,91.4,75.1],"rE_upper":[1722,2366,63,91,17.1,4.1,49.5,85.8],"rL_upper":[1787,2366,63,91,16.8,3.5,50.5,86.4],"plantVine":[1852,2366,146,90,4.4,9.7,136.3,67.9],"stSprout":[0,2467,57,90],"skThigh":[59,2467,62,89,10.1,6.2,52.8,83.4],"rO_shin":[123,2467,65,88,33.7,6.4,40.5,83.7],"bsTail":[190,2467,116,87],"fBtFairy":[308,2467,119,87],"rH_shin":[429,2467,65,87,33.7,5.4,41.8,82.8],"rO_upper":[496,2467,71,87,18.1,4.3,52.8,83.2],"skUpper":[569,2467,71,86,63.5,5.3,7.7,78.3],"rH_upper":[642,2467,73,86,19.0,3.4,57.4,80.7],"rG_upper":[717,2467,64,85,12.5,4.0,50.8,80.2],"rC_head":[783,2467,85,84],"stBat":[870,2467,91,83],"rB_head":[963,2467,127,82],"fGbForest":[1092,2467,73,81],"fire":[1167,2467,89,80],"rC_shin":[1258,2467,53,80,9.1,4.2,40.7,76.0],"rG_shin":[1313,2467,66,80,18.0,2.7,38.4,76.6],"rL_shin":[1381,2467,67,79,14.9,4.2,39.3,75.5],"fSlZombie":[1450,2467,138,79],"rG_head":[1590,2467,104,77],"rE_shin":[1696,2467,66,76,17.0,2.8,39.6,72.6],"rF_shin":[1764,2467,65,76,15.3,2.9,37.5,72.4],"rO_fore":[1831,2467,121,76,5.1,17.1,113.4,55.4],"bsBackL":[1954,2467,44,75,29.2,2.4,15.6,71.4],"rE_head":[0,2559,104,75],"rB_shin":[106,2559,63,73,10.2,5.5,42.6,66.1],"rL_thigh":[171,2559,55,72,17.4,4.4,41.9,66.7],"rI_thigh":[228,2559,55,72,16.5,4.4,41.4,66.6],"rB_torso":[285,2559,52,71],"rE_thigh":[339,2559,55,71,17.3,3.4,41.8,65.9],"rF_thigh":[396,2559,55,71,16.9,3.5,41.5,65.7],"rG_thigh":[453,2559,56,69,16.5,3.5,42.9,63.8],"stHatch":[511,2559,54,68],"rB_fore":[567,2559,125,67,5.4,12.5,116.1,46.0],"rB_thigh":[694,2559,37,67,20.5,3.3,21.7,62.5],"bsFrontL":[733,2559,55,66,49.9,3.1,6.6,58.9],"rD_upper":[790,2559,51,65,9.6,4.4,37.0,61.1],"fSlRock":[843,2559,93,63],"rH_thigh":[938,2559,62,62,22.8,2.1,37.7,56.7],"rB_upper":[1002,2559,58,60,12.0,3.8,52.5,53.7],"rC_upper":[1062,2559,35,58,14.2,3.4,22.3,53.9],"fSlGrass":[1099,2559,64,57],"rD_fore":[1165,2559,109,54,5.7,6.9,103.1,36.0],"stPebble":[1276,2559,57,49],"rD_thigh":[1335,2559,37,48,21.2,2.5,19.7,44.5],"rC_thigh":[1374,2559,38,47,21.6,2.4,21.6,43.8],"rD_shin":[1414,2559,49,45,21.8,3.7,33.6,41.7],"skClub":[1465,2559,102,42,3.5,24.2,98.1,19.7],"gbKnife":[1569,2559,138,42,3.0,17.2,130.5,10.1],"rC_fore":[1709,2559,98,42,4.3,16.7,90.3,19.9],"rB_knife":[1809,2559,109,28,3.7,12.1,101.7,14.2]},ART=new Image(),ARTOK=false;ART.src='art/atlas.webp?v=10';
 function aspr(k){return ATLAS[k];}
 // draw a limb image so that its end points land on A and B
 function seg(g,k,ax,ay,bx,by,ext){var a=ATLAS[k];if(!a||!ARTOK)return;var x0=a[4],y0=a[5],x1=a[6],y1=a[7],L0=Math.hypot(x1-x0,y1-y0),L=Math.hypot(bx-ax,by-ay)||0.01,s=L/L0*(ext||1);
@@ -325,6 +325,10 @@ var RIGS={A:{head:['rA_head',27],torso:['rA_torso',31],arm:'rA_arm',arm2:'rA_arm
  F:{head:['rF_head',24],torso:['rF_torso',27],upper:'rF_upper',fore:'rF_fore',wf:1,thigh:'rF_thigh',shin:'rF_shin'},
  G:{head:['rG_head',23],torso:['rG_torso',24],upper:'rG_upper',fore:'rG_fore',wf:1,thigh:'rG_thigh',shin:'rG_shin'},
  H:{head:['rH_head',25],torso:['rH_torso',25],upper:'rH_upper',fore:'rH_fore',wf:1,thigh:'rH_thigh',shin:'rH_shin'},
+ L:{head:['rL_head',22],torso:['rL_torso',25],upper:'rL_upper',fore:'rL_fore',thigh:'rL_thigh',shin:'rL_shin',wpn:['rL_wpn',30,0.35,0.7]},
+ I:{hy:7,head:['rI_head',25],torso:['rI_torso',27],upper:'rI_upper',fore:'rI_fore',thigh:'rI_thigh',shin:'rI_shin',wpn:['rI_wpn',22,0.4,0.6]},
+ T:{head:['rT_head',24],torso:['rT_torso',27],upper:'rT_upper',fore:'rT_fore',thigh:'rT_thigh',shin:'rT_shin'},
+ O:{head:['rO_head',24],torso:['rO_torso',26],upper:'rO_upper',fore:'rO_fore',thigh:'rO_thigh',shin:'rO_shin',wpn:['rO_wpn',24,0.4,0.78],shield:['rO_shield',17]},
  D:{head:['rD_head',26],torso:['rD_torso',29],upper:'rD_upper',fore:'rD_fore',thigh:'rD_thigh',boot:'rD_shin'}};
 function drawRig(g,p,id,H){var Rg=RIGS[id],wk=p.walk||0,mv=Math.min(1,Math.abs(p.vx||0)/120);p._mv=(p._mv||0)+(mv-(p._mv||0))*0.15;mv=p._mv;
   var t=performance.now()/1000,run=p.ground?Math.sin(wk*2)*mv:0.6,sw=p.swing>0?1-p.swing/0.2:0,bob=p.ground?(1-Math.cos(wk*4))*0.6*mv+Math.sin(t*2.2)*0.4*(1-mv):0;
@@ -336,8 +340,21 @@ function drawRig(g,p,id,H){var Rg=RIGS[id],wk=p.walk||0,mv=Math.min(1,Math.abs(p
     if(Rg.arm){var k=i?Rg.arm2:Rg.arm;seg(g,k,sx,sy,sx+Math.sin(a+0.3)*19,sy+Math.cos(a+0.3)*19);return;}
     var ex=sx+Math.sin(a)*10,ey=sy+Math.cos(a)*10,hx=ex+Math.sin(a+0.6)*12,hy=ey+Math.cos(a+0.6)*12;seg(g,Rg.upper,sx,sy,ex,ey);if(!i&&Rg.wf)seg(g,Rg.upper,ex,ey,hx,hy);else seg(g,Rg.fore,ex,ey,hx,hy,Rg.wf?1.15:1);
     if(i&&Rg.knife){var an=a+0.6;seg(g,Rg.knife,hx,hy,hx+Math.sin(an+1.3)*15,hy+Math.cos(an+1.3)*15);}
-    if(i&&Rg.bow)spr(g,Rg.bow,hx,hy,34,0.5,0.5,0.1);}
-  arm(0);leg(0);leg(1);spr(g,Rg.torso[0],0,shY-5,Rg.torso[1],0.5,0.04);spr(g,Rg.head[0],2,headY+Math.sin(t*2.2)*0.4,Rg.head[1],0.5,0.6);arm(1);g.restore();}
+    if(i&&Rg.bow)spr(g,Rg.bow,hx,hy,34,0.5,0.5,0.1);
+    if(i&&Rg.wpn)spr(g,Rg.wpn[0],hx,hy,Rg.wpn[1],Rg.wpn[2],Rg.wpn[3],p.swing>0?(-1.2+sw*2.2):0.2);
+    if(!i&&Rg.shield)spr(g,Rg.shield[0],hx+2,hy-2,Rg.shield[1],0.5,0.5);}
+  arm(0);leg(0);leg(1);spr(g,Rg.torso[0],0,shY-5,Rg.torso[1],0.5,0.04);spr(g,Rg.head[0],2,headY+(Rg.hy||0)+Math.sin(t*2.2)*0.4,Rg.head[1],0.5,0.6);arm(1);g.restore();}
+function segFlip(g,k,ax,ay,bx,by){g.save();g.scale(-1,1);seg(g,k,-ax,ay,-bx,by);g.restore();}
+function drawBatRig(g,t,H){var s=H/26,fl=Math.sin(t*14);g.save();g.scale(s,s);g.translate(0,-13+Math.sin(t*7)*1.5);
+  spr(g,'rBat_wing',-2,-6,16,0.03,0.7,0.55+fl*0.55,-1,1);
+  spr(g,'rBat_body',0,0,24,0.5,0.55);
+  spr(g,'rBat_wing',2,-5,17,0.03,0.7,0.35+fl*0.6,-1,0.92);g.restore();}
+function drawDrakeRig(g,t,mv,H,atk){var s=H/34,ph=t*11,sw=Math.sin(ph)*mv;g.save();g.scale(s,s);var bob=(1-Math.cos(ph*2))*0.8*mv;g.translate(0,-bob);
+  spr(g,'rDr_tail',-13,-19,11,0.02,0.35,Math.sin(t*4)*0.12-0.1,-1,1);
+  segFlip(g,'rDr_back',-9,-17,-9-sw*5,bob);segFlip(g,'rDr_front',9,-17,9+sw*5,bob);
+  var bg=g.createLinearGradient(0,-27,0,-11);bg.addColorStop(0,'#567f2c');bg.addColorStop(1,'#7aa547');g.fillStyle=bg;g.strokeStyle='#2f3d1a';g.lineWidth=1.2;g.beginPath();g.ellipse(0,-18.5,13.5,7.5,-0.05,0,7);g.fill();g.stroke();g.fillStyle='#a9c86a';g.beginPath();g.ellipse(2,-13.6,9,2.6,0,0,Math.PI);g.fill();
+  segFlip(g,'rDr_back',-6,-16,-6+sw*5,bob);segFlip(g,'rDr_front',12,-16,12-sw*5,bob);
+  spr(g,'rDr_head',13,-21,24,0.66,0.95,atk?-0.12:Math.sin(t*3)*0.03,-1,1);g.restore();}
 function drawSlime(g,p,P){var t=performance.now()/1000,wk=p.walk||0,lift=P.legs?14:0;g.save();g.translate(p.x,p.y);g.scale(p.face,1);shadow(g,18);
   if(P.legs==='plantLegs')spr(g,'plantRoots',0,-15,18,0.5,0.05);
   else if(P.legs==='wolfLegs'){var r=p.ground?Math.sin(wk*2)*0.5:0.4;seg(g,'wolfLeg',-5,-16,-5+Math.sin(r)*10,0);seg(g,'wolfLeg',5,-16,5-Math.sin(r)*10,0);}
@@ -383,8 +400,12 @@ function drawEnemy(e){var E=ENEMY[e.sp],A=EART[e.sp],s=e.w/E.w,t=e.t;ctx.save();
   else if(e.sp==='plant'){rot=Math.sin(t*3)*0.06;}
   else{var run=e.ground&&Math.abs(e.vx)>20;y=run?-Math.abs(Math.sin(t*12))*2:0;rot=run?Math.sin(t*12)*0.05:0;}
   if(e.aim>0){sx*=1.06;sy*=0.94;}
+  if(e.sp==='bat'){drawBatRig(ctx,t,E.h*1.3);ctx.restore();drawEnemyOver(e);return;}if(e.sp==='drake'){drawDrakeRig(ctx,t,Math.min(1,Math.abs(e.vx)/60),E.h*1.15,e.aim>0);ctx.restore();drawEnemyOver(e);return;}
+  var ERIG={wolf:'L',golem:'I',plant:'T',goblin:'O'};if(ERIG[e.sp]){var ep=e._p||(e._p={});ep.x=0;ep.y=0;ep.face=1;ep.ground=true;ep.vx=Math.abs(e.vx)*1.6;ep.walk=(ep.walk||0)+Math.abs(e.vx)*0.0007+0.004;ep.swing=e.aim>0||e.slamT>0?0.1:(e.hitT||0);drawRig(ctx,ep,ERIG[e.sp],E.h*(e.sp==='golem'?1.12:1.4));ctx.restore();if(e.hit>0){}
+    drawEnemyOver(e);return;}
   var emv=e.sp==='bat'||e.sp==='plant'?0:Math.min(1,Math.abs(e.vx)/80);ctx.translate(0,y);ctx.rotate(rot);ctx.scale(sx,sy);ctx.translate(0,-(1-Math.cos(t*9))*0.8*emv);spr(ctx,A[0],0,0,h,A[2],A[3]);
-  ctx.restore();
+  ctx.restore();drawEnemyOver(e);}
+function drawEnemyOver(e){
   if(e.hit>0){ctx.globalAlpha=0.5;ctx.fillStyle='#fff';ctx.fillRect(e.x-e.w/2,e.y-e.h,e.w,e.h);ctx.globalAlpha=1;}
   if(e.burn>0){ctx.fillStyle='rgba(255,140,58,.25)';ctx.fillRect(e.x-e.w/2,e.y-e.h,e.w,e.h);}
   if(e.aim>0){ctx.fillStyle='#ffd34f';ctx.font='900 22px sans-serif';ctx.textAlign='center';ctx.fillText('!',e.x,e.y-e.h-10);}

diff --git a/bone-to-beast/src/pack.py b/bone-to-beast/src/pack.py
@@ -32,6 +32,15 @@ RIGP.update({'rE_head':('gp_00',None),'rE_torso':('gp_01',None),'rE_upper':('gp_
 'rG_head':('gp_13',None),'rG_torso':('gp_14',None),'rG_upper':('gp_15','tb'),'rG_fore':('gp_16','gh'),'rG_thigh':('gp_17','tb'),'rG_shin':('gp_18','tb'),
 'rH_head':('gp_22',None),'rH_torso':('gp_23',None),'rH_upper':('gp_24','tb'),'rH_fore':('gp_25','gh'),'rH_thigh':('gp_26','tb'),'rH_shin':('gp_27','tb')})
 for k,(f,m) in RIGP.items(): M[k]=f
+
+RIGP.update({'rL_head':('ep_00',None),'rL_torso':('ep_01',None),'rL_upper':('ep_02','tb'),'rL_fore':('ep_03','lr'),'rL_thigh':('ep_04','tb'),'rL_shin':('ep_05','tb'),'rL_wpn':('ep_06',None),
+'rI_head':('ep_07',None),'rI_torso':('ep_08',None),'rI_upper':('ep_09','tb'),'rI_fore':('ep_10','lr'),'rI_thigh':('ep_11','tb'),'rI_shin':('ep_12','tb'),'rI_wpn':('ep_13',None),
+'rT_head':('ep_14',None),'rT_torso':('ep_15',None),'rT_upper':('ep_16','tb'),'rT_fore':('ep_17','lr'),'rT_thigh':('ep_18','tb'),'rT_shin':('ep_19','tb'),
+'rO_head':('ep_23',None),'rO_torso':('ep_24',None),'rO_upper':('ep_25','tb'),'rO_fore':('ep_26','lr'),'rO_thigh':('ep_27','tb'),'rO_shin':('ep_28','tb'),'rO_wpn':('ep_29',None),'rO_shield':('ep_30',None)})
+for k,(f,m) in RIGP.items(): M[k]=f
+
+RIGP.update({'rBat_body':('bd_00',None),'rBat_wing':('bd_01',None),'rDr_head':('bd_03',None),'rDr_front':('bd_04','tb'),'rDr_back':('bd_05','tb'),'rDr_tail':('bd_06',None)})
+for k,(f,m) in RIGP.items(): M[k]=f
 SC=0.8
 ims={}
 EV=['fSlGrass','fSlRock','fSlZombie','fSlDeath','fSkMoss','fSkWraith','fSkKnight','fSkSteel','fSkVamp',None,'fGbForest','fGbDruid','fGbHob','fGbKing','fGbShaman','fGbDemon','fBsForest','fBsSacred','fBsRock','fBsFire']
